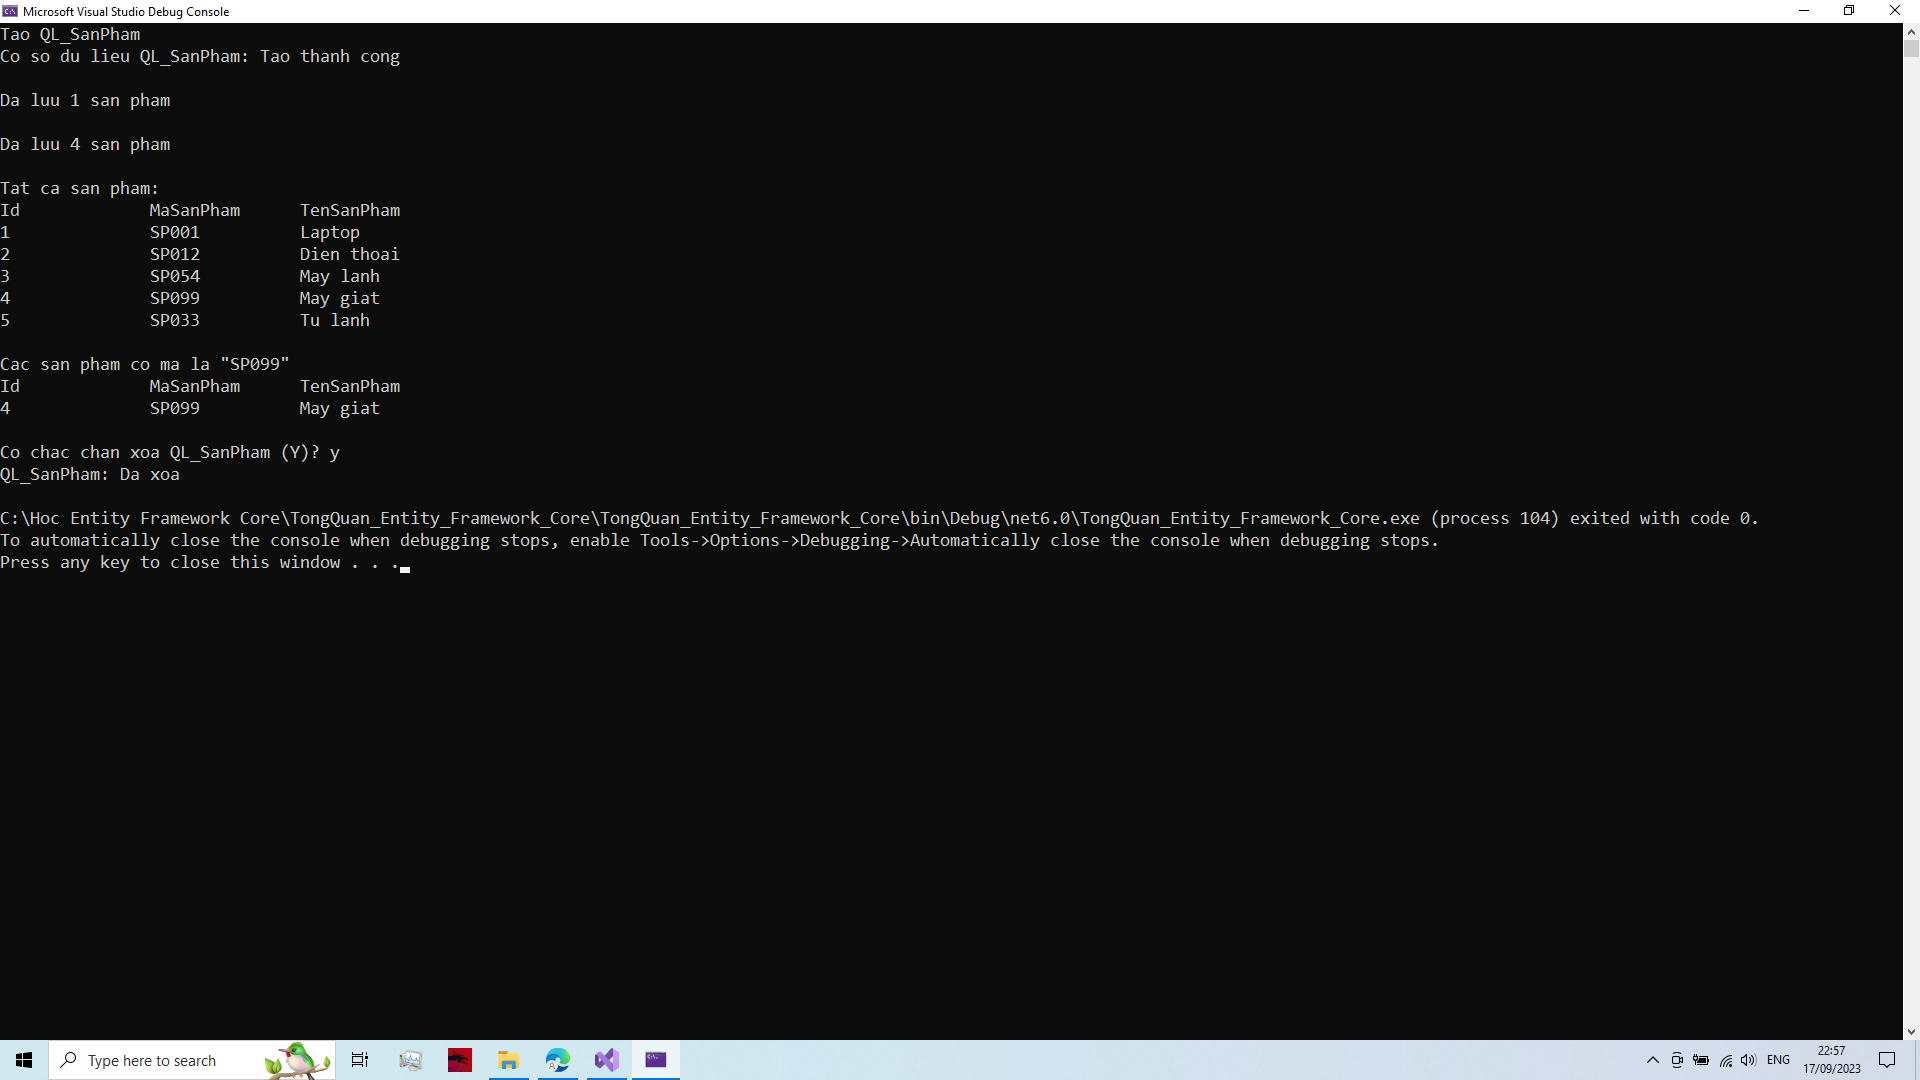
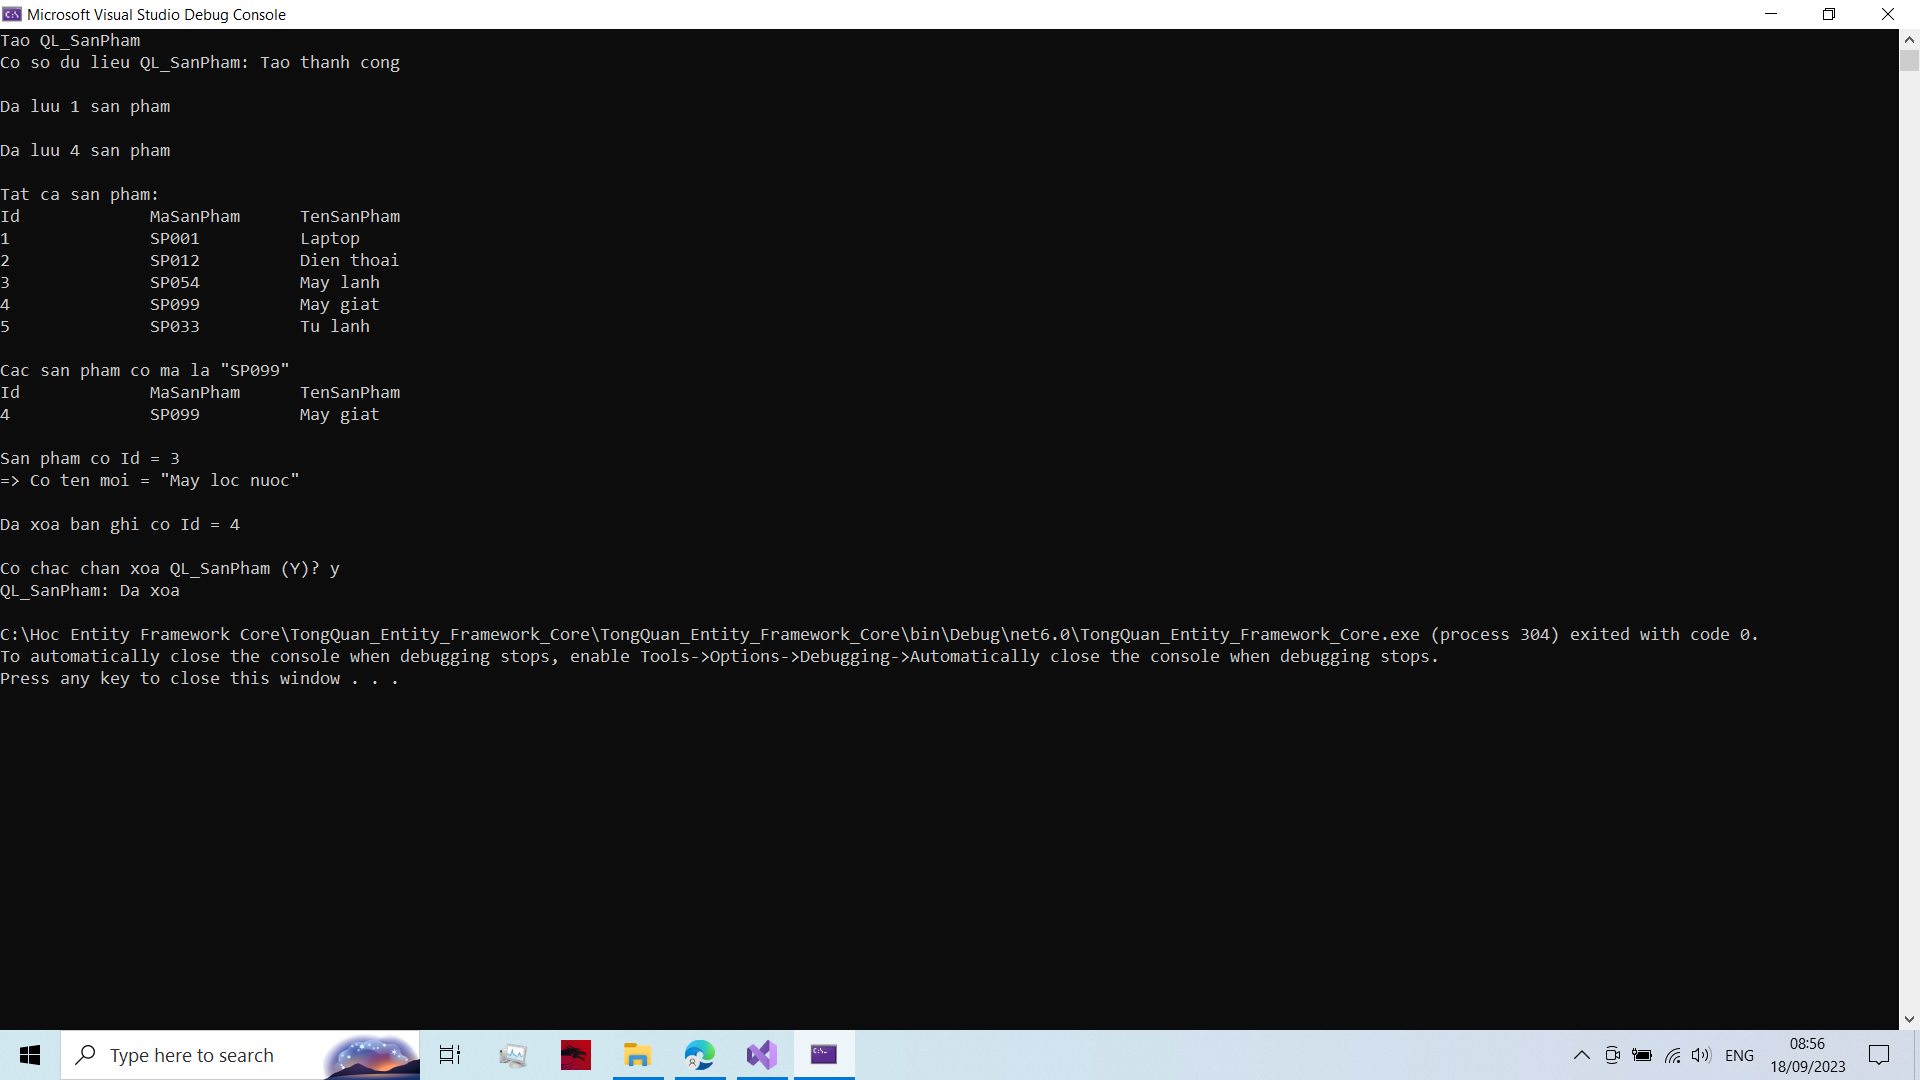
cap nhat

diff --git a/Tổng quan Entity Framework Core/Program.cs b/Tổng quan Entity Framework Core/Program.cs
@@ -182,6 +182,16 @@ namespace MyApp
             Console.WriteLine();
             TruyVan_BanGhi("SP099");
 
+            
+            // gọi hàm cập nhật bản ghi
+            Console.WriteLine();
+            CapNhat_BanGhi(3, "May loc nuoc");
+
+
+            // gọi hàm xóa bản ghi
+            Console.WriteLine();
+            Xoa_BanGhi(4);
+
 
             // gọi hàm xóa cơ sở dữ liệu
             Console.WriteLine();
@@ -440,12 +450,74 @@ namespace MyApp
 
 
         #region CẬP NHẬT BẢN GHI
+            public static void CapNhat_BanGhi(int thamSo_ID, string thamSo_Ten)
+            {
+                using (var dt_DbContext = new QL_SanPhamContext())
+                {
+                    // tạo biến bản ghi
+                    // để truy vấn bản ghi theo ID
+                    var ban_ghi = (
+                                    from item in dt_DbContext.SanPhams
+                                    where (item.Id == thamSo_ID)
+                                    select item
+                                  ).FirstOrDefault();
 
+
+                    // nếu tìm được bản ghi
+                    // thì giá trị sẽ khác null
+                    if (ban_ghi != null)
+                    {
+                        // đổi tên sản phẩm
+                        ban_ghi.TenSanPham = thamSo_Ten;
+                        
+
+                        // in ra thông báo
+                        Console.WriteLine($"San pham co Id = {ban_ghi.Id}");
+                        Console.WriteLine($"=> Co ten moi = \"{ban_ghi.TenSanPham}\"");
+                        
+
+                        // gọi phương thức SaveChanges()
+                        // để cập nhật cơ sở dữ liệu
+                        dt_DbContext.SaveChanges();
+                    }
+                }
+            }
         #endregion
 
 
         #region XÓA BẢN GHI
-        
+            public static void Xoa_BanGhi(int thamSo_ID)
+            {
+                using (var dt_DbContext = new QL_SanPhamContext())
+                {
+                    // tạo biến bản ghi
+                    // để truy vấn bản ghi theo ID
+                    var ban_ghi = (
+                                    from item in dt_DbContext.SanPhams
+                                    where (item.Id == thamSo_ID)
+                                    select item
+                                  ).FirstOrDefault();
+
+
+                    // nếu tìm được bản ghi
+                    // thì giá trị sẽ khác null
+                    if (ban_ghi != null)
+                    {
+                        // gọi phương thức Remove()
+                        // để xóa bản ghi
+                        dt_DbContext.Remove(ban_ghi);
+
+
+                        // gọi phương thức SaveChanges()
+                        // để cập nhật cơ sở dữ liệu
+                        dt_DbContext.SaveChanges();
+
+
+                        // in ra thông báo
+                        Console.WriteLine($"Da xoa ban ghi co Id = {thamSo_ID}");
+                    }
+                }
+            }
         #endregion
     }
 }
